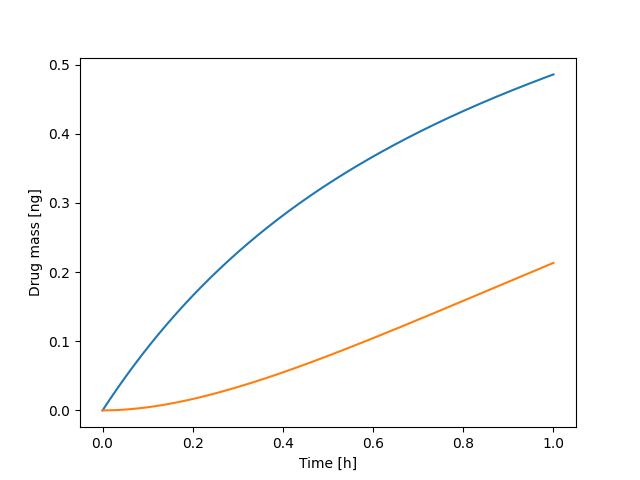
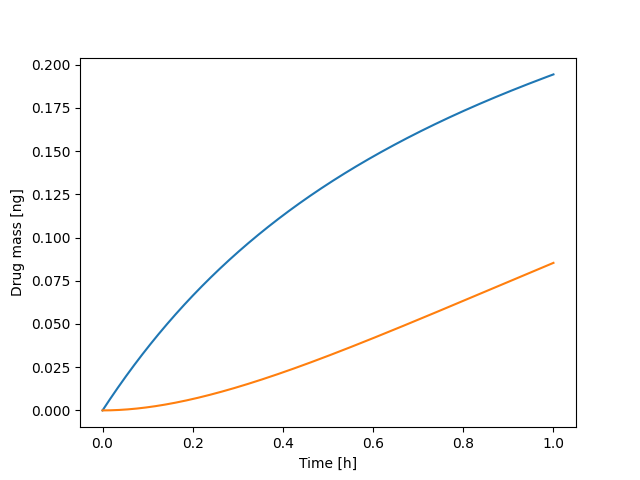
added the option of subcutaneous dosing

diff --git a/pkmodel/model.py b/pkmodel/model.py
@@ -25,6 +25,8 @@ class Model:
         self.num_steps = params['num_steps']['value'] # number of time steps.
         self.endpoint = params['endpoint']['value'] # last timepoint.
         self.y = params['y']['value']  # initial conditions (list of initial drug quantities in compartments).
+        self.ka = params['ka']['value']  
+        self.q = params['q']['value']  
 
     def ODE_sys(self, t, y):
         """
@@ -42,14 +44,19 @@ class Model:
         q_c, q_p1 = y
         dqc_dt = dose(t, self.X) - (q_c / self.V_c) * self.CL
 
-        if self.num_comp == 1:
+        if self.num_comp == 1 and self.dose_type == "IV":
                 return [dqc_dt]
-        elif self.num_comp == 2:
+        elif self.num_comp == 2 and self.dose_type == "IV":
                 dqp1_dt = self.Q_p1 * ((q_c / self.V_c) - (q_p1 / self.V_p1))
                 dqc_dt -= dqp1_dt
                 return [dqc_dt, dqp1_dt]
+        elif self.dose_type == "SC":
+             dqc_dt = self.ka * self.q - (q_c / self.V_c) * self.CL
+             dqp1_dt = self.Q_p1 * ((q_c / self.V_c) - (q_p1 / self.V_p1))
+             dqc_dt -= dqp1_dt
+             return [dqc_dt, dqp1_dt]
         else:
-             raise Exception(f"No compartments")
+             raise Exception(f"Incorrect specification of .yaml file")
 
     def solve(self, t):
         y0 = np.array(self.y) # initial conditions q_c and q_p1

diff --git a/pkmodel/protocol.py b/pkmodel/protocol.py
@@ -11,7 +11,7 @@ schema = Schema(
         {
             "name": {"value": And(str, len)}, #checks name is a str, and not empty (length > 0)
             "num_comp": {"value": And(Use(int), lambda s: s in (1,2))},
-            "dose_type": {"value": And(str, lambda s: s in ("IV"))},
+            "dose_type": {"value": And(str, lambda s: s in ("IV", "SC"))},
             "y": {"value": And(list)},
             "Q_p1": {"value": And(Use(float), lambda n: n>=0)},
             "V_c": {"value": And(Use(float), lambda n: n>=0)},
@@ -20,6 +20,8 @@ schema = Schema(
             "X": {"value": And(Use(float), lambda n: n>=0)},
             "num_steps": {"value": And(Use(int), lambda n: n>=0)},
             "endpoint": {"value": And(Use(float), lambda n: n>=0)},
+            "ka": {"value": And(Use(float))},
+            "q": {"value": And(Use(float))}
         }
     ],
     ignore_extra_keys= True #extra dictionary keys in the file is not counted
